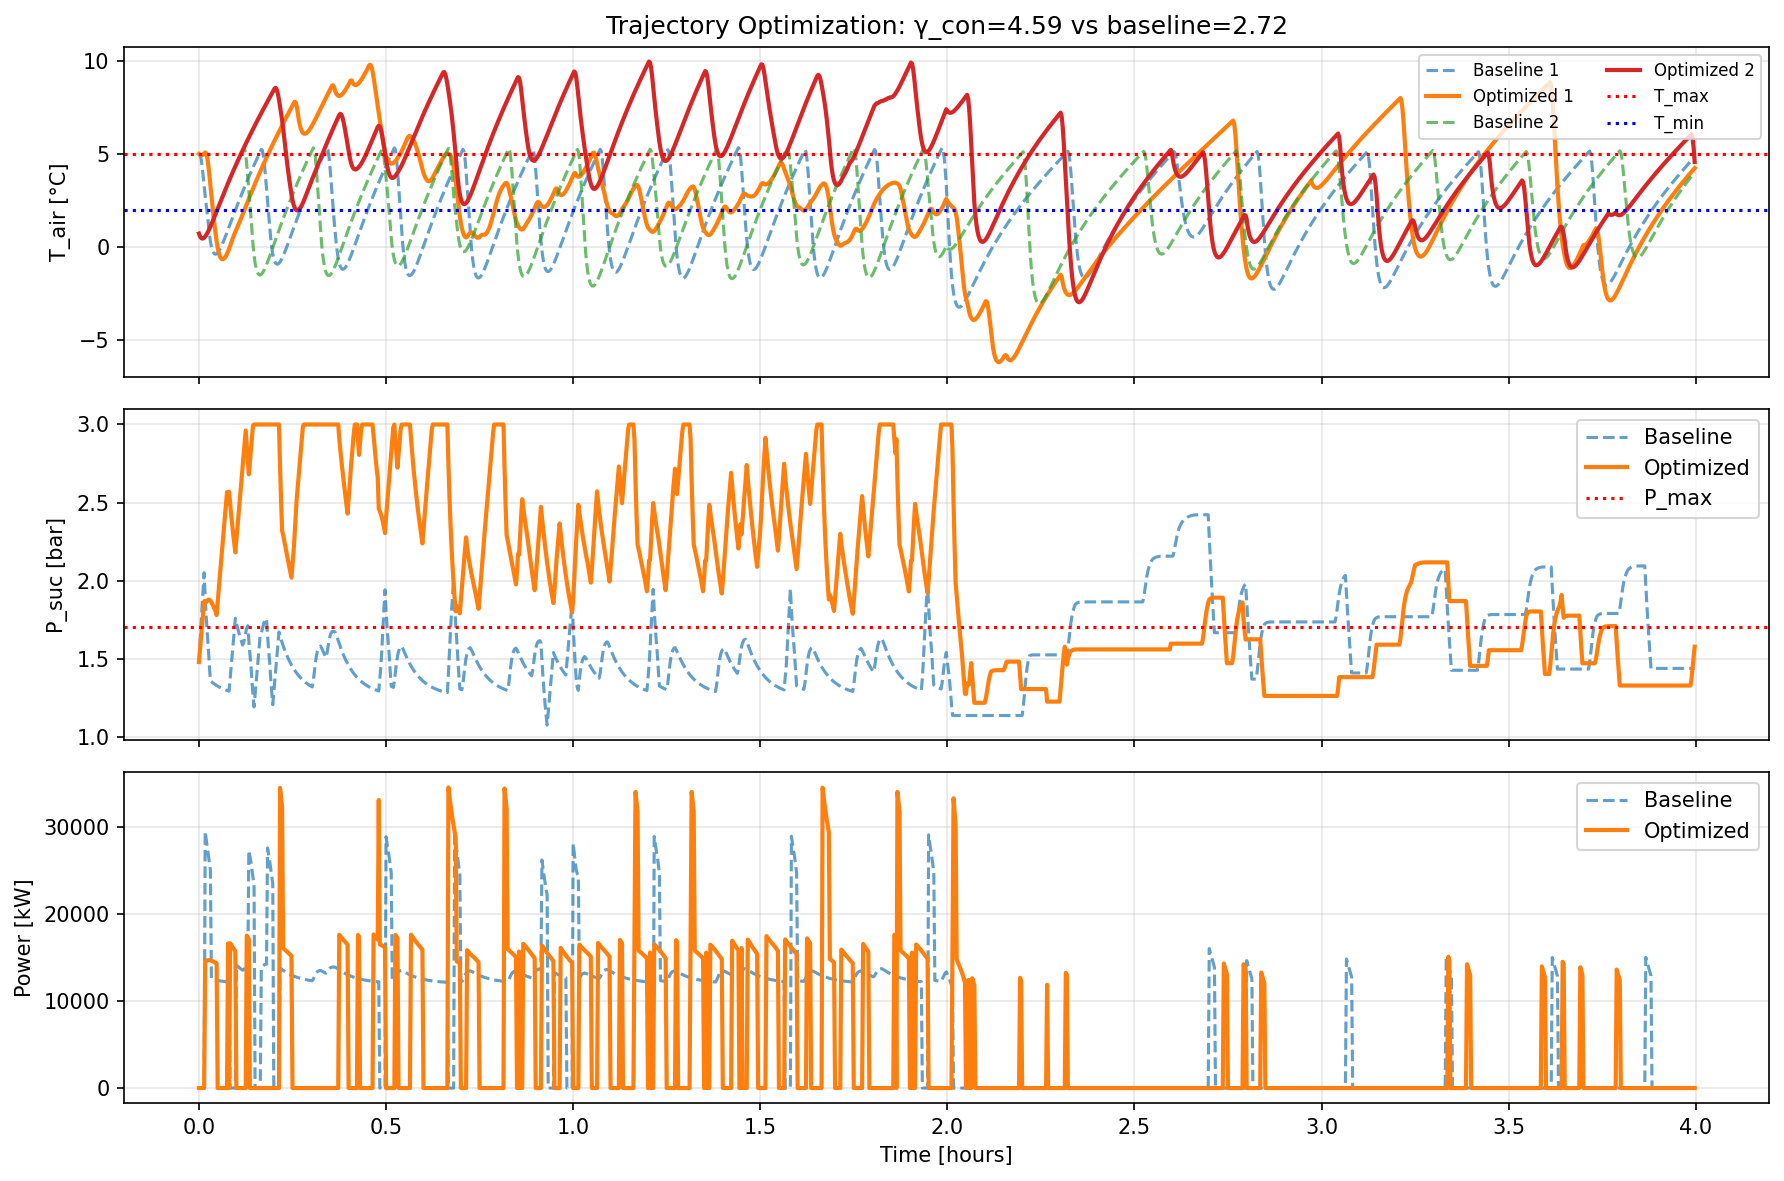
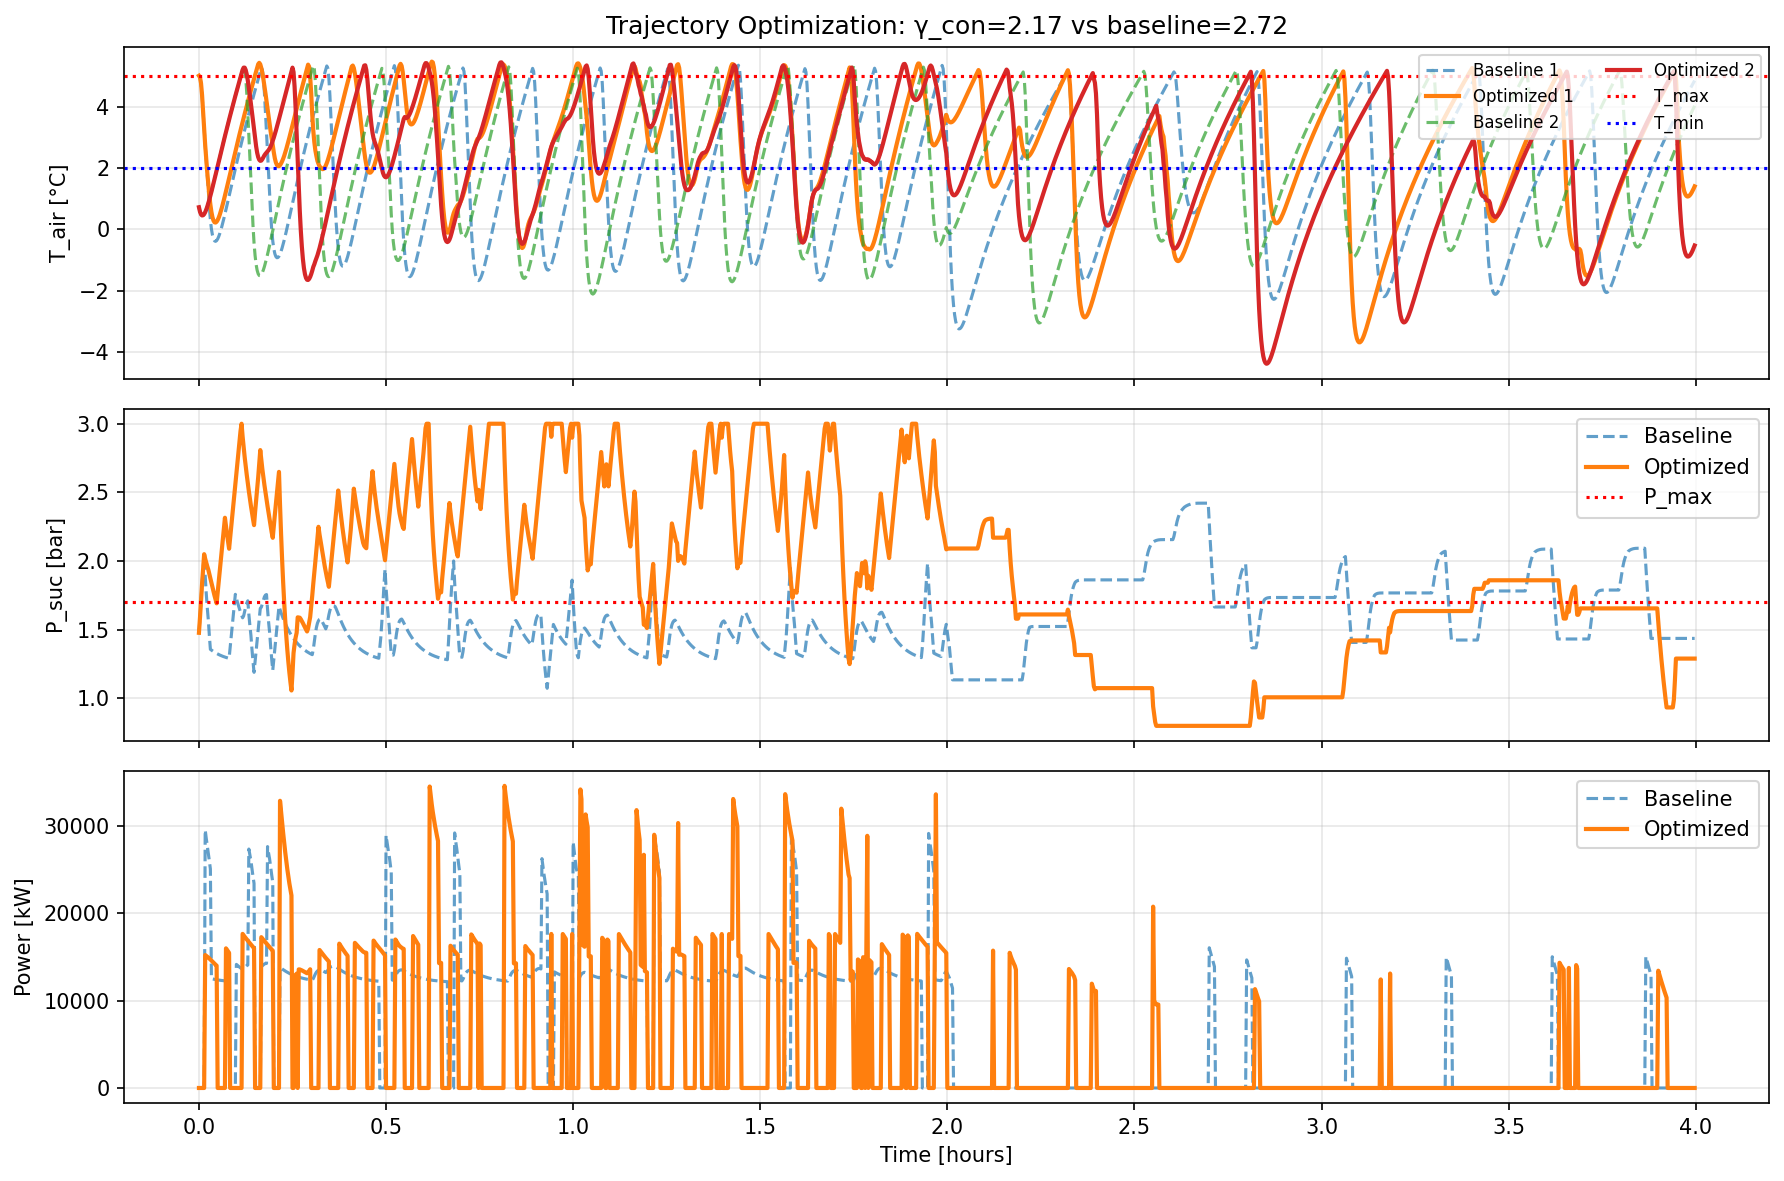
Change in scale of switch cost

diff --git a/supermarket_refrigeration/trajectory_optimization.py b/supermarket_refrigeration/trajectory_optimization.py
@@ -71,7 +71,8 @@ class TrajectoryOptimizer:
             u_traj = z[:n_u_total].reshape(horizon, n_u)
             x_inner = z[n_u_total:].reshape(horizon, n_x)
             x_full = jnp.concatenate([self.x0_jax[None, :], x_inner], axis=0)
-        
+            
+            
             # TODO: Implement the objective function for multiple shooting optimization
             # 
             # Your objective should minimize:
@@ -82,7 +83,7 @@ class TrajectoryOptimizer:
             # - u_traj: control trajectory [horizon, n_u]
             #   - u_traj[:, :n_cases] are valve commands [0,1]
             #   - u_traj[:, n_cases] is compressor percentage [0,100]
-            #   - x_full: state trajectory [horizon+1, n_x] (includes initial state)
+            # - x_full: state trajectory [horizon+1, n_x] (includes initial state)
             #   - x_full[:, -1] is P_suc (suction pressure)
             #
             # Hints:
@@ -107,8 +108,8 @@ class TrajectoryOptimizer:
             valves_switches = jnp.sum(jnp.abs(jnp.diff(valves, axis=0)))
             switch_cost = comp_switches + valves_switches / 100.0
 
-            return power_cost / 1000.0 + 0.01 * switch_cost
-
+            return power_cost / 1000.0 + 0.1 * switch_cost
+        
         @jit
         def dynamics_defects(z):
             n_u_total = horizon * n_u
@@ -136,23 +137,21 @@ class TrajectoryOptimizer:
             #
             # Return: flat vector of all defects, shape [horizon * n_x]
             #
-            # This is the KEY difference between single and multiple shooting!
-
+            # This is the KEY difference between single and multiple shooting!    
             def calculate_defect(k):
-                x_predicted = dynamics_step(x_full[k], u_traj[k], self.d_traj_jax[k])
-                defect = x_predicted - x_full[k + 1]
-                return defect
+                x_pred = self.dynamics_step(x_full[k], u_traj[k], self.d_traj_jax[k])
+                return x_pred - x_full[k + 1]
         
             k = jnp.arange(horizon)
             defects = jax.vmap(calculate_defect)(k)
-            return defects.flatten()
-
+            return defects.reshape(-1)
+        
         self.objective_jax = objective
         self.objective_grad_jax = jit(grad(objective))
         self.dynamics_defects_jax = dynamics_defects
         self.dynamics_jacobian_jax = jit(jax.jacfwd(dynamics_defects))
     
-    def optimize(self, x0: np.ndarray, d_traj: np.ndarray, 
+    def optimize(self, x0: np.ndarray, d_traj: np.ndarray, P_ref: float, 
                 max_iter: int = 20, verbose: bool = False) -> Tuple[np.ndarray, np.ndarray]:
         """
         Solve multiple shooting optimization problem using SLSQP
@@ -172,7 +171,7 @@ class TrajectoryOptimizer:
         self.d_traj_jax = jnp.array(d_traj)
         
         # Initialize from PID baseline
-        u_init = self._get_pid_warmstart(x0, d_traj)
+        u_init = self._get_pid_warmstart(x0, d_traj, P_ref)
         x_init = self.forward_simulate(self.x0_jax, u_init, self.d_traj_jax)[1:]
         z0 = np.concatenate([np.array(u_init).flatten(), np.array(x_init).flatten()]).astype(np.float64)
         
@@ -226,6 +225,7 @@ class TrajectoryOptimizer:
             idx_psuc = base + 8
             lb_x[idx_psuc] = 0.8
             ub_x[idx_psuc] = 1.7
+        
         
         bounds = Bounds(
             lb=np.concatenate([lb_u, lb_x]).astype(np.float64),
@@ -291,7 +291,7 @@ class TrajectoryOptimizer:
         
         return u_optimal, x_optimal
     
-    def _get_pid_warmstart(self, x0: np.ndarray, d_traj: np.ndarray) -> jnp.ndarray:
+    def _get_pid_warmstart(self, x0: np.ndarray, d_traj: np.ndarray, P_ref: float) -> jnp.ndarray:
         """PID baseline for warm start"""
         system = sm.RefrigerationSystem(self.n_cases, [50.0, 50.0], 0.08, False)
         
@@ -308,12 +308,13 @@ class TrajectoryOptimizer:
         for i in range(self.n_cases):
             system.cases[i].state = np.array([T_goods[i], T_wall[i], T_air[i], M_ref[i]])
         system.P_suc = P_suc
-        system.set_day_mode()
         
         u_init = np.zeros((self.horizon, self.n_u))
         for t in range(self.horizon):
-            if t * self.dt >= 7200:
-                system.set_night_mode()
+            system.Q_airload = d_traj[t, 0]
+            system.m_ref_const = d_traj[t, -1]
+            system.P_ref = P_ref
+
             valves, comp_on, _, _ = system.simulate_step(self.dt, t * self.dt)
             u_init[t, :self.n_cases] = valves
             u_init[t, self.n_cases] = sum(comp_on)
@@ -346,7 +347,8 @@ def optimize_full_trajectory(scenario='2d-2c', duration=14400, window_size=180,
         """Extract state as flat vector [4n+1]"""
         state_vec = []
         for i in range(n_cases):
-            state_vec.extend(system.cases[i].state)  # [T_goods, T_wall, T_air, M_ref]
+            state_vec.append(system.cases[i].state)  # [T_goods, T_wall, T_air, M_ref]
+        state_vec = list(np.array(state_vec).transpose().flatten())
         state_vec.append(system.P_suc)
         return np.array(state_vec)
     
@@ -384,10 +386,13 @@ def optimize_full_trajectory(scenario='2d-2c', duration=14400, window_size=180,
             eta = (elapsed / (window_idx + 1)) * (n_windows - window_idx - 1) if window_idx > 0 else 0
             print(f"Window {window_idx+1}/{n_windows} | Elapsed: {elapsed:.0f}s | ETA: {eta:.0f}s", flush=True)
         
+        if t_window >= 7200:
+            system.set_night_mode()
+        
         x0 = get_state_vector(system, n_cases)
         d_traj = np.tile(get_disturbance(system, n_cases), (horizon_steps, 1))
         
-        u_window, x_window = optimizer.optimize(x0, d_traj, max_iter=max_iter, verbose=False)
+        u_window, x_window = optimizer.optimize(x0, d_traj, P_ref=system.P_ref, max_iter=max_iter, verbose=False)
         
         # Apply the ENTIRE optimized window (not just first step!)
         for step_in_window in range(horizon_steps):
@@ -408,9 +413,6 @@ def optimize_full_trajectory(scenario='2d-2c', duration=14400, window_size=180,
                 system.current_comp_on = [50.0, 0.0]
             else:
                 system.current_comp_on = [50.0, 50.0]
-            
-            if t_current >= 7200:
-                system.set_night_mode()
             
             # Now simulate with our controls (not PID!)
             # We need to manually step the system, bypassing the controller
@@ -454,7 +456,7 @@ def optimize_full_trajectory(scenario='2d-2c', duration=14400, window_size=180,
     
     # Metrics (split u_opt_hist into valves and compressor)
     valve_states = u_opt_hist[:, :n_cases]
-    comp_switches = u_opt_hist[:, n_cases]  # Total compressor capacity
+    comp_switches = np.abs(np.diff(jnp.round(u_opt_hist[:, n_cases] / system.comp_capacities[0])))  # All compressor switches
     gamma_con_opt, gamma_switch_opt, gamma_pow_opt = sm.calculate_performance(
         time_opt, T_air_opt, P_suc_opt, comp_switches, power_opt, valve_states, P_ref=1.7
     )
@@ -536,4 +538,3 @@ if __name__ == "__main__":
     
     # For faster testing during development, use:
     # optimize_full_trajectory(duration=1800, window_size=180, max_iter=50)  # 30 min test
-
